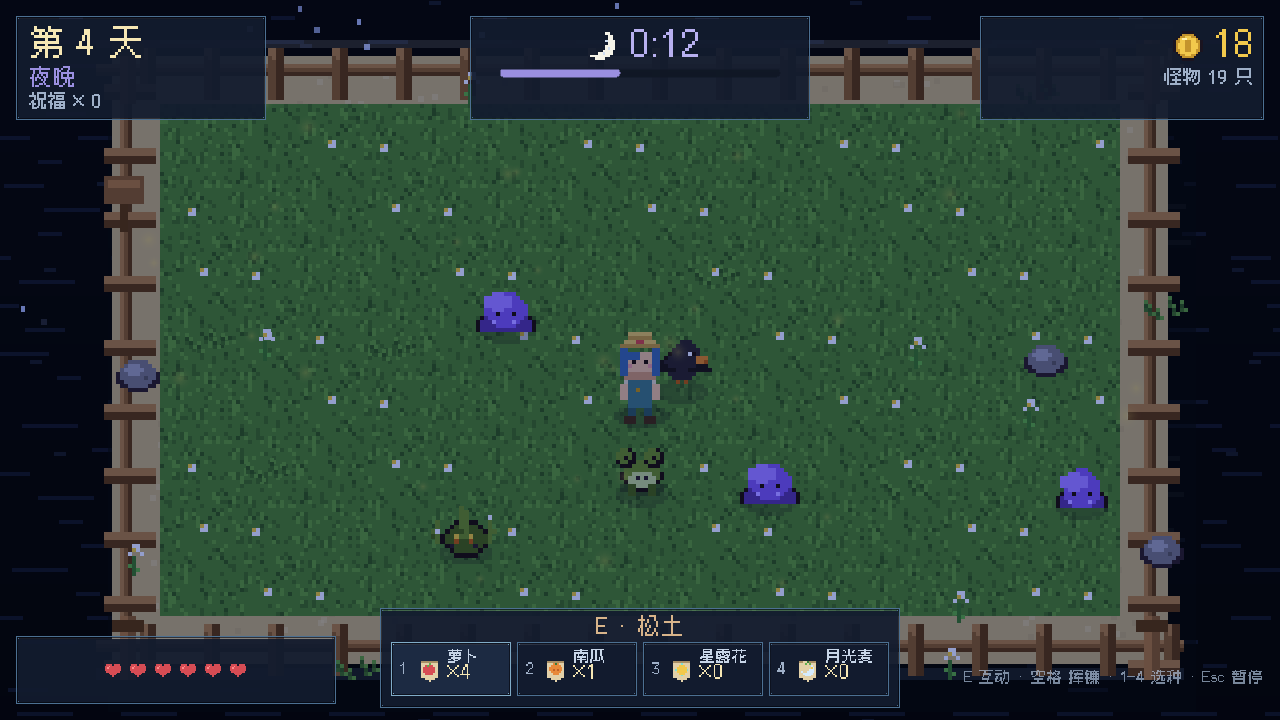
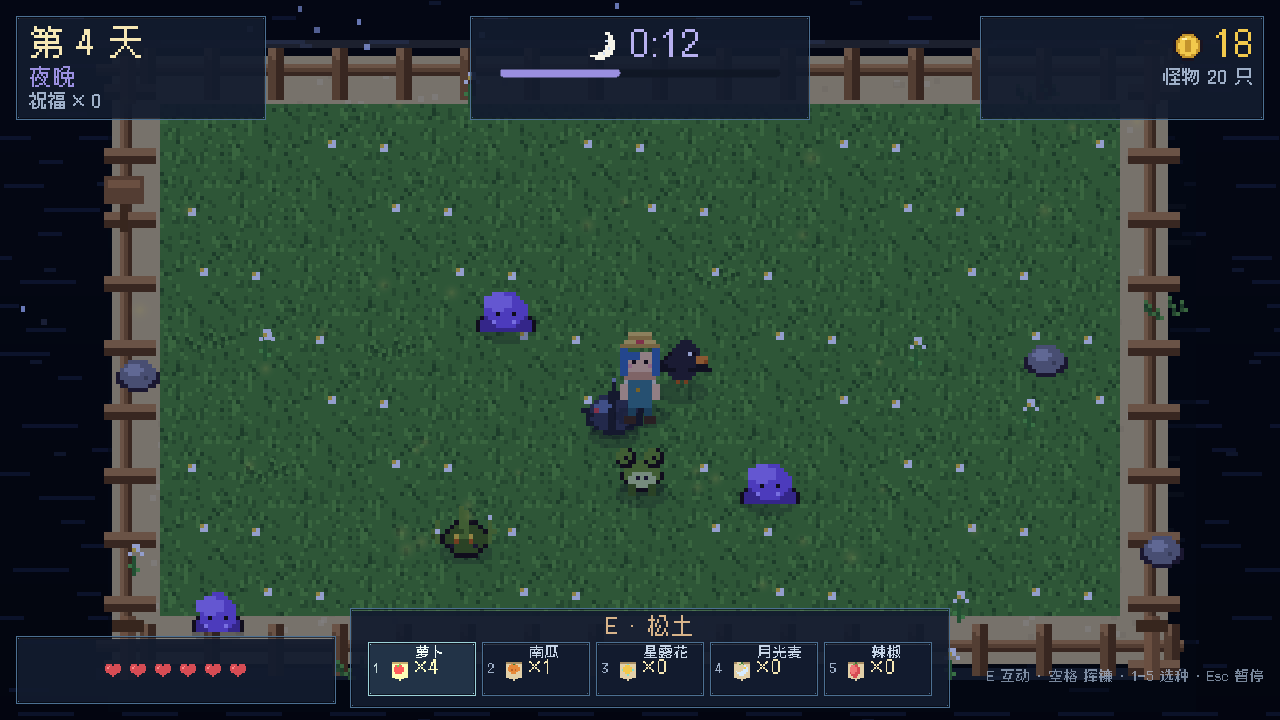
updates 06-08: armored beetle, fog/storm weather, achievements (v1.4.0)

diff --git a/tools/gen_art.py b/tools/gen_art.py
@@ -526,6 +526,43 @@ def frog_frame(step: int) -> Image.Image:
     return im
 
 
+def beetle_frame(step: int) -> Image.Image:
+    im, d = new(16, 16)
+    shell = (58, 63, 85, 255)
+    dark = (35, 38, 52, 255)
+    shine = (106, 122, 154, 255)
+    red = (214, 76, 84, 255)
+    disc(d, 8, 14, 5, 1.5, (20, 26, 36, 90))
+    disc(d, 8, 10, 6, 4, dark)
+    disc(d, 8, 9.5, 5.5, 3.5, shell)
+    box(d, 7, 6, 8, 13, dark)
+    disc(d, 6, 8, 1.5, 1, shine)
+    # horn
+    d.polygon([(7, 6), (8, 2), (9, 6)], fill=dark)
+    px(d, 8, 2, (140, 150, 176, 255))
+    # eyes
+    px(d, 4, 9, red)
+    px(d, 12, 9, red)
+    # legs
+    for y in (10, 12):
+        box(d, 2, y, 3, y, dark)
+        box(d, 13, y, 14, y, dark)
+    if step:
+        box(d, 1, 9, 2, 9, dark)
+        box(d, 14, 9, 15, 9, dark)
+    else:
+        box(d, 2, 8, 3, 8, dark)
+        box(d, 13, 8, 14, 8, dark)
+    return im
+
+
+def beetle_sheet() -> Image.Image:
+    sheet, _ = new(32, 16)
+    for i in range(2):
+        sheet.paste(beetle_frame(i), (i * 16, 0))
+    return sheet
+
+
 def frog_sheet() -> Image.Image:
     sheet, _ = new(32, 16)
     for i in range(2):
@@ -1253,6 +1290,7 @@ def main() -> None:
     save(vine_sheet(), "chars", "vine.png")
     save(boss_sheet(), "chars", "boss_pumpkin.png")
     save(frog_sheet(), "chars", "frog.png")
+    save(beetle_sheet(), "chars", "beetle.png")
     save(shadow(), "chars", "shadow.png")
     # crops
     for i in range(4):

diff --git a/README.md b/README.md
@@ -9,14 +9,16 @@
 ![标题界面](screenshots/shot_title.png)
 ![手机实机](screenshots/shot_mobile_phone.png)
 ![雨天](screenshots/shot_rain.png)
+![雷雨](screenshots/shot_storm.png)
 ![南瓜王](screenshots/shot_boss.png)
 
 ## 玩法
 
 - **白天（75 秒）**：走到田里，按互动键松土 → 播种 → 浇水 → 收获。作物只在浇过水之后生长。
-- **天气**：每天有 30% 概率下雨。雨天会自动浇灌所有作物（包括新种下的），雨声和雨丝会一起出现。
-- **夜晚**：潮水带来史莱姆、偷穗鸦、缠根怪和沼泽蛙。用镰刀清场；乌鸦会优先啃食成熟的作物。萤火虫会飘在田上。
+- **天气**：每天有雨天、雾天、雷雨等随机天气。雨天/雷雨会自动浇灌所有作物（包括新种下的）；雾天视野变灰；雷雨会闪电并配雨声。
+- **夜晚**：潮水带来史莱姆、偷穗鸦、缠根怪、沼泽蛙和铁甲虫。用镰刀清场；乌鸦会优先啃食成熟的作物。萤火虫会飘在田上。
 - **黎明**：三选一随机祝福，然后可以在**潮汐商店**用金币买种子、回血、加生命上限。
+- **成就**：8 个成就（首收、50 收、50 杀、第 5 天、Boss、无尽 10 天、金色作物、雷雨）解锁时弹横幅并写入存档。
 - **第 7 夜**：腐化南瓜王苏醒。它会吐种子弹、在血量过半和残血时召唤潮泥怪；打倒它才能迎来胜利。
 - **无尽模式**：通关后可以继续。每 3 天再战一次南瓜王，怪潮越来越厚，直到农场沉没。最佳纪录按存活天数结算。
 - 地图装饰、天气、夜间波次、祝福与商店都是随机的，所以每一局都不一样。
@@ -58,8 +60,8 @@
 
 到 [Releases](https://github.com/ElectLive/whale-fall-farm/releases) 下载最新版：
 
-- Windows：`WhaleFallFarm-v1.3.0-win64.zip` — 解压双击 `WhaleFallFarm.exe`，绿色免安装，存档在 exe 旁边。
-- Android：`WhaleFallFarm-v1.3.0-android.apk` — Android 7.0+ / arm64，允许「安装未知来源应用」即可安装。APK 使用调试证书签名，适合直接安装试玩，不适合上架应用商店。
+- Windows：`WhaleFallFarm-v1.4.0-win64.zip` — 解压双击 `WhaleFallFarm.exe`，绿色免安装，存档在 exe 旁边。
+- Android：`WhaleFallFarm-v1.4.0-android.apk` — Android 7.0+ / arm64，允许「安装未知来源应用」即可安装。APK 使用调试证书签名，适合直接安装试玩，不适合上架应用商店。
 
 ## 从源码运行
 
@@ -94,7 +96,7 @@ Godot --headless --path . --export-release "Android" build/android/WhaleFallFarm
 ## 从源码重新生成素材
 
 ```bash
-python tools/gen_art.py     # 82 张像素图 + 图标（需要 Pillow）
+python tools/gen_art.py     # 87 张像素图 + 图标（需要 Pillow）
 python tools/gen_audio.py   # 4 首循环 BGM + 17 个音效 + 1 条雨声（需要 numpy）
 ```
 
@@ -104,7 +106,7 @@ python tools/gen_audio.py   # 4 首循环 BGM + 17 个音效 + 1 条雨声（需
 
 ```bash
 # 无头逻辑测试：种田、昼夜、商店、祝福、Boss、无尽、天气、移动端触控、存档
-Godot --headless --path . -- --selftest     # 54/54 PASS
+Godot --headless --path . -- --selftest     # 64/64 PASS
 
 # 实时冒烟测试：真的种一轮、传送到怪身边砍死几只、进入黎明
 Godot --headless --path . -- --smoke
@@ -161,6 +163,7 @@ docs/
 - **v1.1.0** — 第 4 种作物「月光麦」；新怪物「沼泽蛙」；雨天天气；4 格种子栏。
 - **v1.2.0** — **Android 适配与 APK**：虚拟摇杆、触控攻击/互动/暂停、可点选种子栏、返回键暂停、手机存档路径；Windows 版同步。
 - **v1.3.0** — 第 5 种作物「辣椒」+ 5 格种子栏；金色作物变异（3 倍售价）；手机震动与切后台自动暂停；农事 QoL（种子用完自动切换、收获金额提示）。
+- **v1.4.0** — 4 个新祝福（暴击/收割回血/夜战/点金手）；新怪物「铁甲虫」（护甲减伤）；雾天与雷雨天气（闪电、雨声、自动浇水）；8 个成就与解锁横幅。
 
 ## License
 

diff --git a/docs/design.md b/docs/design.md
@@ -79,16 +79,25 @@
 | 偷穗鸦 | 2 | 34 | 1 | 3 金 | 优先啃成熟作物，吃完再追玩家 |
 | 缠根怪 | 7 | 13 | 2 | 5 金 | 慢速追击，周期性停顿 |
 | 沼泽蛙 | 4 | 62 | 1 | 4 金 | 原地蓄力后跳跃扑向玩家 |
+| 铁甲虫 | 9 | 15 | 2 | 6 金 | 护甲：每次受到的伤害 -1（最低 1） |
 
 - 每日血量系数：`1 + (day-1) * 0.12`。
-- 波次：day N 的史莱姆 `4 + (N-1)*2`，乌鸦 `N-1`，缠根怪 `N-3`（第 3 天起），沼泽蛙 `N-4`（第 4 天起）；第 8 天起额外加成。
+- 波次：day N 的史莱姆 `4 + (N-1)*2`，乌鸦 `N-1`，缠根怪 `N-3`（第 3 天起），沼泽蛙 `N-4`（第 4 天起），铁甲虫 `N-5`（第 5 天起）；第 8 天起额外加成。
 - 玩家：6 HP，挥镰 1 伤害 / 0.38s，无敌帧 0.9s。
 
 ### 天气
 
-- 第 2 天起，每天 30% 概率下雨；第 1 天固定晴天。
-- 雨天：所有已种作物自动浇水，雨中新种下的作物也直接是湿润状态；雨丝粒子 + 雨声环境音。
-- 雨天只影响白天，入夜后雨停；天气不会改变作物售价或怪物强度。
+- 第 2 天起随机：晴天 62%、雨天 20%、雾天 10%、雷雨 8%；第 1 天固定晴天。
+- 雨天/雷雨：所有已种作物自动浇水，雨中新种下的作物也直接湿润；雨丝粒子 + 雨声环境音。
+- 雾天：世界变灰、屏幕叠一层淡雾，不自动浇水。
+- 雷雨：比雨天更暗，每隔 3.5–8 秒闪电一次（白屏闪光 + 低频雷声），同样自动浇水。
+- 天气只影响白天，入夜后统一放晴。
+
+### 成就
+
+- 8 个成就定义在 `GameData.ACHIEVEMENTS`，解锁后写入 `save_data.cfg`，并用横幅提示。
+- 触发点：首次收获、累计 50 收获、累计 50 击杀、到达第 5 天、击败 Boss、无尽第 10 天、收获金色作物、经历雷雨。
+- 统计计数（收获/击杀/金色收获）也保存在存档里，供后续图鉴/统计页使用。
 
 ### 经济
 
@@ -114,6 +123,10 @@
 | nightglass | 夜视螺镜 | 夜晚移速 +20% |
 | slowcharm | 潮雾提灯 | 夜晚怪物移速 -12% |
 | greenthumb | 绿拇指 | 浇水时作物立即获得 15% 生长 |
+| crit | 锐利镰刃 | 20% 概率双倍伤害 |
+| harvest | 丰收护符 | 收获时 20% 概率回 1 血 |
+| night | 夜行者帽子 | 夜晚镰刀伤害 +1 |
+| golden | 点金手 | 金色作物概率 +10% |
 
 - 每次黎明从「未拥有」的祝福里随机抽 3 个；抽空后用「潮汐补给（回 3 血）」兜底。
 - 效果在 `main.gd::_apply_relic` 与 `mods` 字典中集中实现。

diff --git a/CHANGELOG.md b/CHANGELOG.md
@@ -3,6 +3,22 @@
 All notable changes to Whale Fall Farm are documented here.
 Format follows [Keep a Changelog](https://keepachangelog.com/); versions use semver.
 
+## v1.4.0 — 2026-10-29
+
+### Added
+
+- Four relics: 锐利镰刃 (20% crit), 丰收护符 (20% heal on harvest), 夜行者帽子 (+1 night damage), 点金手 (+10% golden chance).
+- **铁甲虫 (beetle)** enemy: 9 HP, armor 1 (damage reduced by 1, minimum 1), joins waves from day 5.
+- **Weather expansion**: fog and thunderstorm in addition to rain; storm lightning flashes and thunder SFX; fog overlay; both wet weathers auto-water.
+- **Achievements**: 8 achievements with unlock banners and persistent storage; lifetime harvest/kill/golden counters.
+- HUD weather text for rain/fog/storm; `--shot=storm` screenshot scenario.
+
+### Changed
+
+- Weather roll changed to 62% sunny / 20% rain / 10% fog / 8% storm from day 2.
+- Boss night adds 2 beetles; normal waves add beetles from day 5.
+- Enemy sprite scale now reads the data `scale` field.
+
 ## v1.3.0 — 2026-10-29
 
 ### Added
@@ -106,7 +122,8 @@ Format follows [Keep a Changelog](https://keepachangelog.com/); versions use sem
 - Fully procedural pixel art (Pillow), chiptune music and SFX (numpy), Cubic 11 font.
 - Headless self-test (`--selftest`), real-time smoke test (`--smoke`), screenshot tooling.
 
-[Unreleased]: https://github.com/ElectLive/whale-fall-farm/compare/v1.3.0...main
+[Unreleased]: https://github.com/ElectLive/whale-fall-farm/compare/v1.4.0...main
+[v1.4.0]: https://github.com/ElectLive/whale-fall-farm/releases/tag/v1.4.0
 [v1.3.0]: https://github.com/ElectLive/whale-fall-farm/releases/tag/v1.3.0
 [v1.2.0]: https://github.com/ElectLive/whale-fall-farm/releases/tag/v1.2.0
 [v1.1.0]: https://github.com/ElectLive/whale-fall-farm/releases/tag/v1.1.0

diff --git a/docs/devlog.md b/docs/devlog.md
@@ -1,5 +1,20 @@
 # 开发日志
 
+## v1.4.0 — 2026-10-29（更新 05–08）
+
+### 内容
+
+- **更新 05**：4 个新祝福：锐利镰刃（20% 双倍伤害）、丰收护符（20% 收获回血）、夜行者帽子（夜晚 +1 伤害）、点金手（金色作物 +10%）。
+- **更新 06**：新怪物「铁甲虫」，9 血、护甲 1（每次伤害 -1，最低 1），第 5 天起加入夜潮。
+- **更新 07**：天气扩展为晴/雨/雾/雷雨；雾天灰屏与淡雾叠层，雷雨闪电 + 雷声 + 自动浇水；HUD 显示天气。
+- **更新 08**：8 个成就（首收、50 收、50 杀、第 5 天、Boss、无尽 10 天、金色作物、雷雨），解锁横幅 + 存档 + 终身计数。
+
+### 验证记录
+
+- `--selftest`：**64/64 PASS**（新祝福数值、甲虫护甲、雷雨/雾天判定、首收成就）。
+- 截图：storm（雷雨 + 成就横幅），day / mobile（5 格种子栏）。
+- 版本 1.4.0，Android versionCode 5。
+
 ## v1.3.0 — 2026-10-29（更新 01–04）
 
 ### 内容

diff --git a/docs/updates20.md b/docs/updates20.md
@@ -15,9 +15,9 @@
 ## v1.4.0 — 战斗与天气
 
 - [x] 05. 4 个新祝福（暴击、收割回血、夜战强化、幸运掉落）
-- [ ] 06. 新怪物「甲虫」（减伤、慢速）
-- [ ] 07. 天气扩展：雾天、雷暴（闪电闪光）+ 黎明天气预报
-- [ ] 08. 成就系统（8 个成就 + 解锁弹窗 + 存档）
+- [x] 06. 新怪物「甲虫」（减伤、慢速）
+- [x] 07. 天气扩展：雾天、雷暴（闪电闪光）+ 黎明天气预报
+- [x] 08. 成就系统（8 个成就 + 解锁弹窗 + 存档）
 
 ## v1.5.0 — 图鉴与无尽
 
